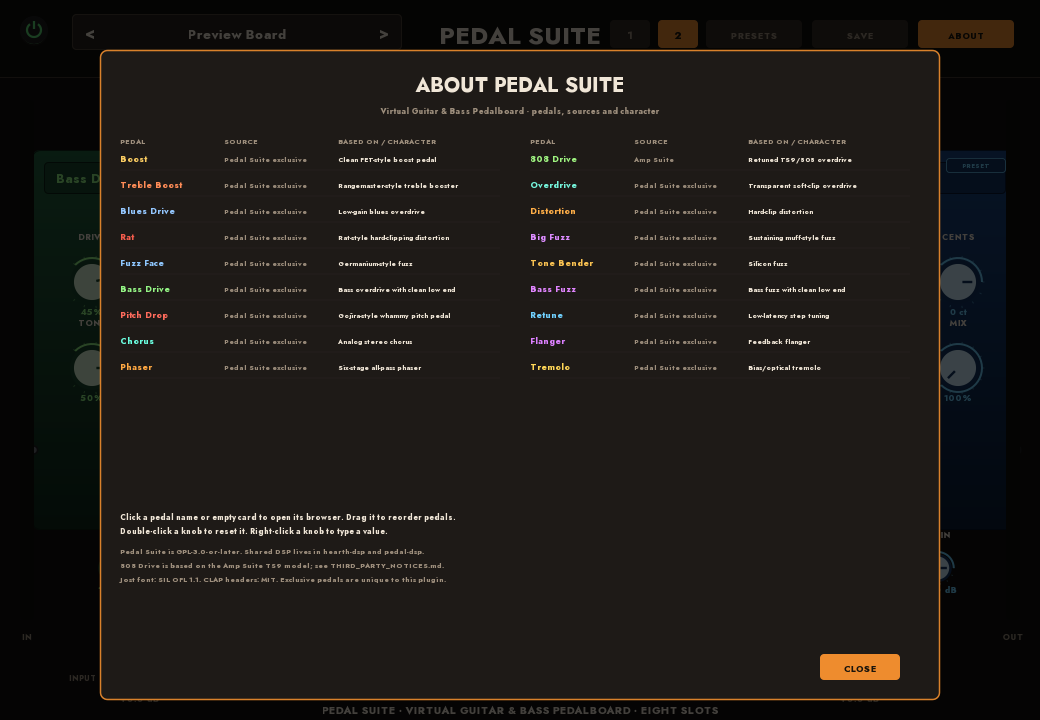
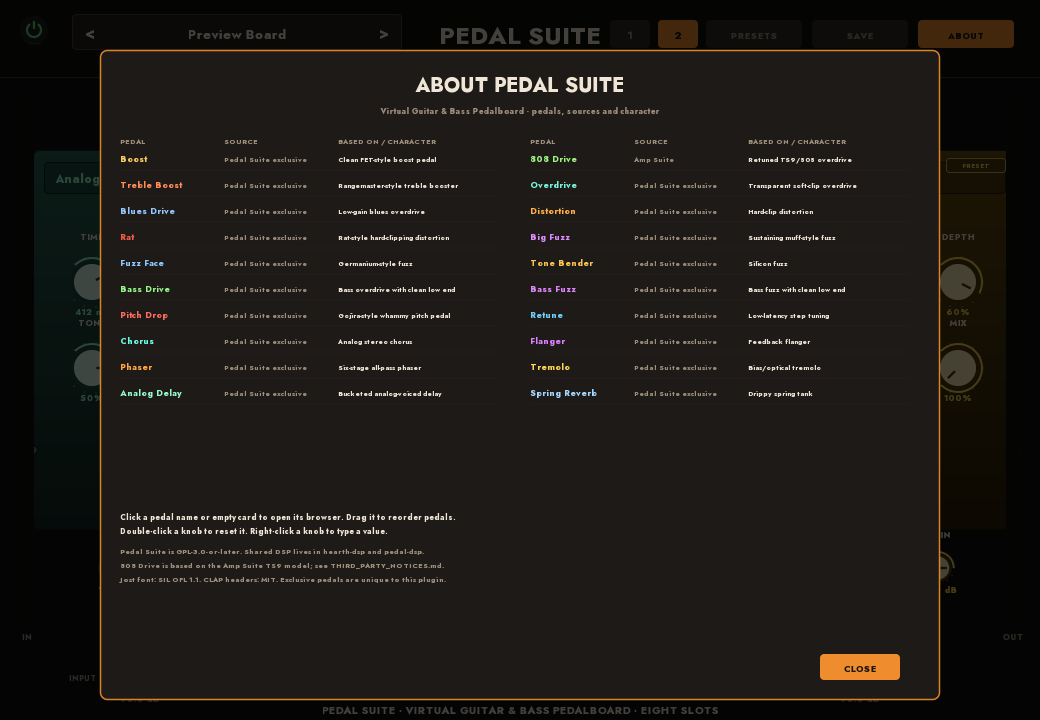
Pedal Suite 0.2.0-alpha — analog delay, spring reverb, 21 pedals

diff --git a/src/modules.hpp b/src/modules.hpp
@@ -98,6 +98,7 @@ enum class ControlFormat {
   Semitones,
   Cents,
   LowCut300,
+  EchoTimeMs,
 };
 
 struct ControlDesc {
@@ -187,6 +188,18 @@ inline constexpr ControlDesc kRetuneControls[] = {
     {1, "CENTS", "Cents", ControlFormat::Cents},
     {2, "LOW CUT", "Low Cut", ControlFormat::LowCut300},
     {3, "MIX", "Mix", ControlFormat::Percent},
+};
+
+inline constexpr ControlDesc kAnalogDelayControls[] = {
+    {0, "TIME", "Time", ControlFormat::EchoTimeMs},
+    {1, "FEEDBACK", "Feedback", ControlFormat::Percent},
+    {2, "TONE", "Tone", ControlFormat::Percent},
+    {3, "MIX", "Mix", ControlFormat::Percent},
+};
+inline constexpr ControlDesc kSpringReverbControls[] = {
+    {0, "DECAY", "Decay", ControlFormat::SpaceDecayS},
+    {1, "TONE", "Tone", ControlFormat::Percent},
+    {2, "MIX", "Mix", ControlFormat::Percent},
 };
 
 inline constexpr ControlDesc kChorusControls[] = {
@@ -320,12 +333,24 @@ inline constexpr ModuleDesc kModules[] = {
      0,
      static_cast<int>(sizeof(kTremoloControls) / sizeof(kTremoloControls[0])),
      kTremoloControls},
+    {ModuleId::AnalogDelay, "Analog Delay", "Time",
+     "Bucketed analog-voiced delay", false, false, 0,
+     static_cast<int>(sizeof(kAnalogDelayControls) /
+                      sizeof(kAnalogDelayControls[0])),
+     kAnalogDelayControls},
+    {ModuleId::SpringReverb, "Spring Reverb", "Time",
+     "Drippy spring tank", false, false, 0,
+     static_cast<int>(sizeof(kSpringReverbControls) /
+                      sizeof(kSpringReverbControls[0])),
+     kSpringReverbControls},
 };
 
 inline constexpr const char* kModuleSources[] = {
     "\u2014",
     "Pedal Suite exclusive",
     "Amp Suite",
+    "Pedal Suite exclusive",
+    "Pedal Suite exclusive",
     "Pedal Suite exclusive",
     "Pedal Suite exclusive",
     "Pedal Suite exclusive",

diff --git a/src/dsp/engine.hpp b/src/dsp/engine.hpp
@@ -38,6 +38,8 @@ public:
     for (auto& p : flanger_) p.prepare(sr_);
     for (auto& p : phaser_) p.prepare(sr_);
     for (auto& p : tremolo_) p.prepare(sr_);
+    for (auto& p : analogDelay_) p.prepare(sr_);
+    for (auto& p : springReverb_) p.prepare(sr_);
     reset();
   }
 
@@ -65,6 +67,8 @@ public:
       flanger_[i].setControls(flangerControlsFrom(c.slot[i]));
       phaser_[i].setControls(phaserControlsFrom(c.slot[i]));
       tremolo_[i].setControls(tremoloControlsFrom(c.slot[i]));
+      analogDelay_[i].setControls(analogDelayControlsFrom(c.slot[i]));
+      springReverb_[i].setControls(springReverbControlsFrom(c.slot[i]));
     }
   }
 
@@ -136,6 +140,12 @@ public:
           case ModuleId::Tremolo:
             tremolo_[s].process(l, r);
             break;
+          case ModuleId::AnalogDelay:
+            analogDelay_[s].process(l, r);
+            break;
+          case ModuleId::SpringReverb:
+            springReverb_[s].process(l, r);
+            break;
           case ModuleId::Off:
           case ModuleId::Count:
             continue;
@@ -192,6 +202,8 @@ public:
     for (auto& p : flanger_) p.reset();
     for (auto& p : phaser_) p.reset();
     for (auto& p : tremolo_) p.reset();
+    for (auto& p : analogDelay_) p.reset();
+    for (auto& p : springReverb_) p.reset();
     input_ = inputTarget_;
     output_ = outputTarget_;
     power_ = powerTarget_;
@@ -240,6 +252,8 @@ private:
   stomp::modules::Flanger flanger_[kSlotCount];
   stomp::modules::Phaser phaser_[kSlotCount];
   stomp::modules::Tremolo tremolo_[kSlotCount];
+  stomp::modules::AnalogDelay analogDelay_[kSlotCount];
+  stomp::modules::SpringReverb springReverb_[kSlotCount];
 };
 
 } // namespace pedal

diff --git a/src/module_ids.hpp b/src/module_ids.hpp
@@ -26,6 +26,8 @@ enum ModuleId : int {
   Flanger,
   Phaser,
   Tremolo,
+  AnalogDelay,
+  SpringReverb,
   Count
 };
 
@@ -35,7 +37,8 @@ inline constexpr const char* kModuleLabels[] = {
     "Off",       "Boost",     "808 Drive",  "Treble Boost", "Overdrive",
     "Blues Drive", "Distortion", "Rat",     "Big Fuzz",   "Fuzz Face",
     "Tone Bender", "Bass Drive", "Bass Fuzz", "Pitch Drop", "Retune",
-    "Chorus", "Flanger", "Phaser", "Tremolo"};
+    "Chorus", "Flanger", "Phaser", "Tremolo", "Analog Delay",
+    "Spring Reverb"};
 
 static_assert(sizeof(kModuleLabels) / sizeof(kModuleLabels[0]) == kModuleCount,
               "kModuleLabels must cover every module id");
@@ -194,6 +197,21 @@ constexpr double defaultControlValue(ModuleId id, int control) noexcept {
         case 1: return 0.60;  // Depth
         case 2: return 0.20;  // Shape
         case 3: return 1.00;  // Mix
+        default: return 0.50;
+      }
+    case ModuleId::AnalogDelay:
+      switch (control) {
+        case 0: return 0.40;  // 400 ms
+        case 1: return 0.40;  // Feedback
+        case 2: return 0.50;  // Tone
+        case 3: return 0.30;  // Mix
+        default: return 0.50;
+      }
+    case ModuleId::SpringReverb:
+      switch (control) {
+        case 0: return 0.40;  // Decay
+        case 1: return 0.50;  // Tone
+        case 2: return 0.30;  // Mix
         default: return 0.50;
       }
     default:

diff --git a/src/value_text.hpp b/src/value_text.hpp
@@ -74,6 +74,9 @@ inline std::string formatControlValue(const ModuleDesc& module,
     case ControlFormat::LowCut300:
       std::snprintf(buf, sizeof(buf), "%.0f Hz", 40.0f + 260.0f * v);
       return buf;
+    case ControlFormat::EchoTimeMs:
+      std::snprintf(buf, sizeof(buf), "%.0f ms", 20.0f + 980.0f * v);
+      return buf;
     case ControlFormat::ThresholdDb:
       std::snprintf(buf, sizeof(buf), "%+.1f dB", -40.0f + 40.0f * v);
       return buf;
@@ -557,6 +560,7 @@ inline bool isMillisecondFormat(ControlFormat format) {
     case ControlFormat::SpaceDelayMs:
     case ControlFormat::DelayMs:
     case ControlFormat::DetuneMs:
+    case ControlFormat::EchoTimeMs:
     case ControlFormat::AttackMs:
     case ControlFormat::ReleaseMs:
     case ControlFormat::L2ReleaseMs:
@@ -705,6 +709,7 @@ inline bool parseParamValue(const Shared& shared, uint32_t id,
         break;
       case ControlFormat::Cents: v = (v + 50.0) / 100.0; break;
       case ControlFormat::LowCut300: v = (v - 40.0) / 260.0; break;
+      case ControlFormat::EchoTimeMs: v = (v - 20.0) / 980.0; break;
       case ControlFormat::ScHpfHz:
         v = std::log(std::max(v, 20.0) / 20.0) / std::log(20.0);
         break;

diff --git a/test/test_dsp.cpp b/test/test_dsp.cpp
@@ -163,6 +163,30 @@ int main() {
           "Phaser is audible");
   }
   {
+    const int n = 48000;
+    auto tail = [&](ModuleId id, int mixControl) {
+      Shared s;
+      initializeRack(s);
+      applyModuleDefaults(s, 0, static_cast<int>(id), false);
+      s.set(slotParam(0, kSlotOffsetC0 + mixControl), 1.0);
+      Engine e;
+      e.prepare(48000.0f);
+      e.setControls(controlsFrom(s));
+      std::vector<float> l(n, 0.0f), r(n, 0.0f);
+      for (int i = 0; i < 2400; ++i) {
+        l[i] = r[i] = 0.3f * std::sin(2.0f * 3.14159265f * 330.0f * i /
+                                      48000.0f);
+      }
+      Meters m;
+      e.process(l.data(), r.data(), n, m);
+      return rms(l, 9600, n);
+    };
+    check(tail(ModuleId::AnalogDelay, 3) > 1.0e-4,
+          "Analog Delay produces a tail");
+    check(tail(ModuleId::SpringReverb, 2) > 1.0e-4,
+          "Spring Reverb produces a tail");
+  }
+  {
     const int n = 12000;
     std::vector<float> x(n);
     for (int i = 0; i < n; ++i) {

diff --git a/src/factory_module_presets.hpp b/src/factory_module_presets.hpp
@@ -102,6 +102,18 @@ inline constexpr FactoryModulePreset kFactoryModulePresets[] = {
      {0.35f, 0.55f, 0.15f, 1.00f}},
     {"Chop", "Pedal Suite exclusive", ModuleId::Tremolo,
      {0.55f, 0.85f, 0.85f, 1.00f}},
+    {"Slapback", "Pedal Suite exclusive", ModuleId::AnalogDelay,
+     {0.09f, 0.15f, 0.55f, 0.30f}},
+    {"Warm Echo", "Pedal Suite exclusive", ModuleId::AnalogDelay,
+     {0.40f, 0.55f, 0.40f, 0.35f}},
+    {"Long Repeat", "Pedal Suite exclusive", ModuleId::AnalogDelay,
+     {0.65f, 0.72f, 0.35f, 0.32f}},
+    {"Tight Spring", "Pedal Suite exclusive", ModuleId::SpringReverb,
+     {0.25f, 0.60f, 0.28f}},
+    {"Drip Tank", "Pedal Suite exclusive", ModuleId::SpringReverb,
+     {0.55f, 0.45f, 0.40f}},
+    {"Long Spring", "Pedal Suite exclusive", ModuleId::SpringReverb,
+     {0.80f, 0.55f, 0.35f}},
 };
 
 inline constexpr int kFactoryModulePresetCount =

diff --git a/src/dsp/module_map.hpp b/src/dsp/module_map.hpp
@@ -145,6 +145,25 @@ inline stomp::modules::TremoloControls tremoloControlsFrom(
   return out;
 }
 
+inline stomp::modules::AnalogDelayControls analogDelayControlsFrom(
+    const SlotControls& c) noexcept {
+  stomp::modules::AnalogDelayControls out;
+  out.time = c.c[0];
+  out.feedback = c.c[1];
+  out.tone = c.c[2];
+  out.mix = c.c[3];
+  return out;
+}
+
+inline stomp::modules::SpringReverbControls springReverbControlsFrom(
+    const SlotControls& c) noexcept {
+  stomp::modules::SpringReverbControls out;
+  out.decay = c.c[0];
+  out.tone = c.c[1];
+  out.mix = c.c[2];
+  return out;
+}
+
 inline stomp::modules::ToneBenderControls toneBenderControlsFrom(
     const SlotControls& c) noexcept {
   stomp::modules::ToneBenderControls out;

diff --git a/test/ui_preview.cpp b/test/ui_preview.cpp
@@ -55,6 +55,14 @@ int main(int argc, char** argv) {
   cairo_surface_write_to_png(surf, (out + "/pedal-board-pitch.png").c_str());
   state.selectedSlot = 4;
 
+  applyModuleDefaults(s, 4, static_cast<int>(ModuleId::AnalogDelay));
+  applyModuleDefaults(s, 5, static_cast<int>(ModuleId::SpringReverb));
+  applyModuleDefaults(s, 6, static_cast<int>(ModuleId::Chorus));
+  applyModuleDefaults(s, 7, static_cast<int>(ModuleId::Tremolo));
+  state.selectedSlot = 4;
+  panel.draw(cr, s, state);
+  cairo_surface_write_to_png(surf, (out + "/pedal-board-time.png").c_str());
+
   state.browserSlot = 4;
   state.browserCategory = 1;
   panel.draw(cr, s, state);

diff --git a/src/ui/panel.cpp b/src/ui/panel.cpp
@@ -133,6 +133,12 @@ ModuleStyle styleFor(int type) {
     case ModuleId::Tremolo:
       return {{0.30, 0.22, 0.05}, {0.12, 0.09, 0.02},
               {1.00, 0.84, 0.34}, {0.98, 0.93, 0.72}};
+    case ModuleId::AnalogDelay:
+      return {{0.12, 0.28, 0.24}, {0.04, 0.12, 0.10},
+              {0.58, 0.98, 0.80}, {0.86, 0.98, 0.92}};
+    case ModuleId::SpringReverb:
+      return {{0.20, 0.24, 0.30}, {0.07, 0.09, 0.12},
+              {0.66, 0.84, 1.00}, {0.88, 0.94, 1.00}};
     default:
       return {{0.105, 0.10, 0.095}, {0.24, 0.22, 0.19},
               {0.55, 0.50, 0.44}, {0.72, 0.70, 0.66}};

diff --git a/src/version.hpp b/src/version.hpp
@@ -4,7 +4,7 @@
 
 namespace pedal {
 constexpr int kVersionMajor = 0;
-constexpr int kVersionMinor = 1;
-constexpr int kVersionMicro = 6;
-constexpr const char* kVersion = "0.1.6-alpha";
+constexpr int kVersionMinor = 2;
+constexpr int kVersionMicro = 0;
+constexpr const char* kVersion = "0.2.0-alpha";
 } // namespace pedal

diff --git a/README.md b/README.md
@@ -1,6 +1,6 @@
 # Pedal Suite
 
-**Status: 0.1.6-alpha — drive/fuzz, pitch and modulation.**
+**Status: 0.2.0-alpha — 21 pedals across drive, pitch, modulation and time.**
 
 A virtual guitar and bass pedalboard in the Suite visual language: eight pedal
 slots across two pages of four, with a shared preset browser, typed values,
@@ -15,6 +15,8 @@ and full board visuals land in later milestones.
 ![Pedal Suite — page 2](docs/pedal-board-page2.png)
 
 ![Pedal Suite — pitch pedals](docs/pedal-board-pitch.png)
+
+![Pedal Suite — time pedals](docs/pedal-board-time.png)
 
 ## Current slice
 
@@ -44,6 +46,8 @@ and full board visuals land in later milestones.
 - **Flanger** — Rate, Depth, Feedback, Mix.
 - **Phaser** — Rate, Depth, Feedback, Mix.
 - **Tremolo** — Rate, Depth, Shape, Mix.
+- **Analog Delay** — Time, Feedback, Tone, Mix.
+- **Spring Reverb** — Decay, Tone, Mix.
 - Factory board presets: Clean Platform, 808 Stack, Lead Lift.
 - User board and pedal presets: save, rename and delete.
 - Double-click resets a knob; right-click types an exact value.

diff --git a/CHANGELOG.md b/CHANGELOG.md
@@ -1,5 +1,14 @@
 # Changelog
 
+## 0.2.0-alpha — 2026-11-18
+
+- Added Analog Delay and Spring Reverb, bringing the board to 21 pedal
+  types — the public-alpha pedal target.
+- Analog Delay uses the hearth-dsp BBD-voiced delay with Time, Feedback,
+  Tone and Mix.
+- Spring Reverb uses the hearth-dsp spring tank with Decay, Tone and Mix.
+- Factory presets for both, plus delay/reverb tail tests.
+
 ## 0.1.6-alpha — 2026-11-18
 
 - Added Chorus, Flanger, Phaser and Tremolo.
